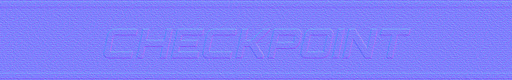
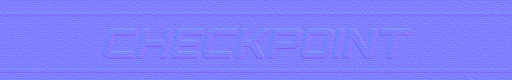
stadium: gate word bands in TMNF's layout (FINISH white on red) (M11-2)
Claude-Session: https://claude.ai/code/session_01CoCjs3F2Nw6StPmuE9yD2C

Changed region(s): [[0.0, 0.9, 1.0, 0.925]]

diff --git a/stadium/tools/texgen/gates.py b/stadium/tools/texgen/gates.py
@@ -7,10 +7,12 @@ import numpy as np
 from texlib import *
 
 KINDS = {
-    # word, ink, band (the word's backing), edge stripe
-    'start': ('START', (40, 196, 72), (226, 230, 226), (40, 196, 72)),
-    'cp': ('CHECKPOINT', (36, 120, 232), (30, 31, 35), (36, 120, 232)),
-    'finish': ('FINISH', (226, 44, 36), (226, 230, 226), (226, 44, 36)),
+    # word, ink, band (the word's backing), lines along the band ((top, bottom) as shares of its
+    # height, colour): TMNF's RaceSigns layout (START green on white under one green line, FINISH
+    # white on red between white lines, CHECKPOINT blue on dark between blue lines)
+    'start': ('START', (52, 168, 64), (228, 226, 222), [((0.07, 0.12), (52, 168, 64))]),
+    'cp': ('CHECKPOINT', (44, 96, 214), (34, 34, 37), [((0.15, 0.19), (44, 96, 214)), ((0.86, 0.90), (44, 96, 214))]),
+    'finish': ('FINISH', (242, 240, 236), (196, 28, 22), [((0.15, 0.18), (242, 240, 236)), ((0.89, 0.92), (242, 240, 236))]),
 }
 
 
@@ -26,8 +28,8 @@ def rubber(w, h, seed, base):
 
 def band(kind, name, ppm=128, length=8.0, height=1.25, seed=51, word_h=0.62, repeats=1):
     """A band `length` m long (u) and `height` m tall (v): the word in the kind's ink on its
-    backing, stripes of the ink colour at both edges, scuffs. Text runs along u."""
-    word, ink, back, edge = KINDS[kind]
+    backing, the kind's lines along it, scuffs. Text runs along u."""
+    word, ink, back, lines = KINDS[kind]
     w = int(length * ppm)
     h = int(height * ppm)
     col, ribs, n2 = rubber(w, h, seed, back)
@@ -44,10 +46,11 @@ def band(kind, name, ppm=128, length=8.0, height=1.25, seed=51, word_h=0.62, rep
         col = lerp(col, srgb((24, 26, 30))[None, None, :], np.clip(outline - txt, 0, 1) * 0.9)
     worn = smoothstep(0.4, 1.6, fbm(w, h, seed + 2, beta=1.0, lo=10.0)) * 0.35
     col = lerp(col, srgb(ink)[None, None, :] * (1.0 + 0.05 * n2)[..., None], txt * (1.0 - worn))
-    s = 0.07 * h
-    stripes = np.maximum(rect_mask(w, h, -10, 0.02 * h, w + 10, 0.02 * h + s, 1.0),
-                         rect_mask(w, h, -10, 0.98 * h - s, w + 10, 0.98 * h, 1.0))
-    col = lerp(col, srgb(edge)[None, None, :], stripes)
+    stripes = np.zeros((h, w), np.float32)
+    for (y0, y1), c in lines:
+        m = rect_mask(w, h, -10, y0 * h, w + 10, y1 * h, 1.0)
+        col = lerp(col, srgb(c)[None, None, :], m * (1.0 - worn))
+        stripes = np.maximum(stripes, m)
     scuff = grime(w, h, seed + 3, 0.7, 2.0)
     col = lerp(col, srgb((70, 68, 64))[None, None, :], scuff * 0.25)
     hgt = 0.6 * ribs + 0.3 * n2 + 1.2 * txt + 0.8 * stripes

diff --git a/docs/PROGRESS.md b/docs/PROGRESS.md
@@ -2512,3 +2512,8 @@ on every real contact the full impulse would land at the contact point and kick 
   (`platform.gd _ring_uv`); the legs under the lips dark truss; the billboard over the arch curved
   and falling with it as TMNF's (measured: its ends 2 m lower and 2.8 m nearer the front than its
   middle). Material check (Checkpoint/Air): colour differs 828 -> 657 m2.
+- (M11-2) **The gates' word bands in TMNF's layout** (its RaceSigns, our own drawing and font):
+  FINISH white on red between two white lines (was red on white), START green on white under one
+  green line, CHECKPOINT blue on dark between two blue lines (`texgen/gates.py KINDS`: lines per
+  kind); on the road gates' arch faces and curbs and the platform checkpoints' arch. Side by side
+  with TMNF's blocks.
